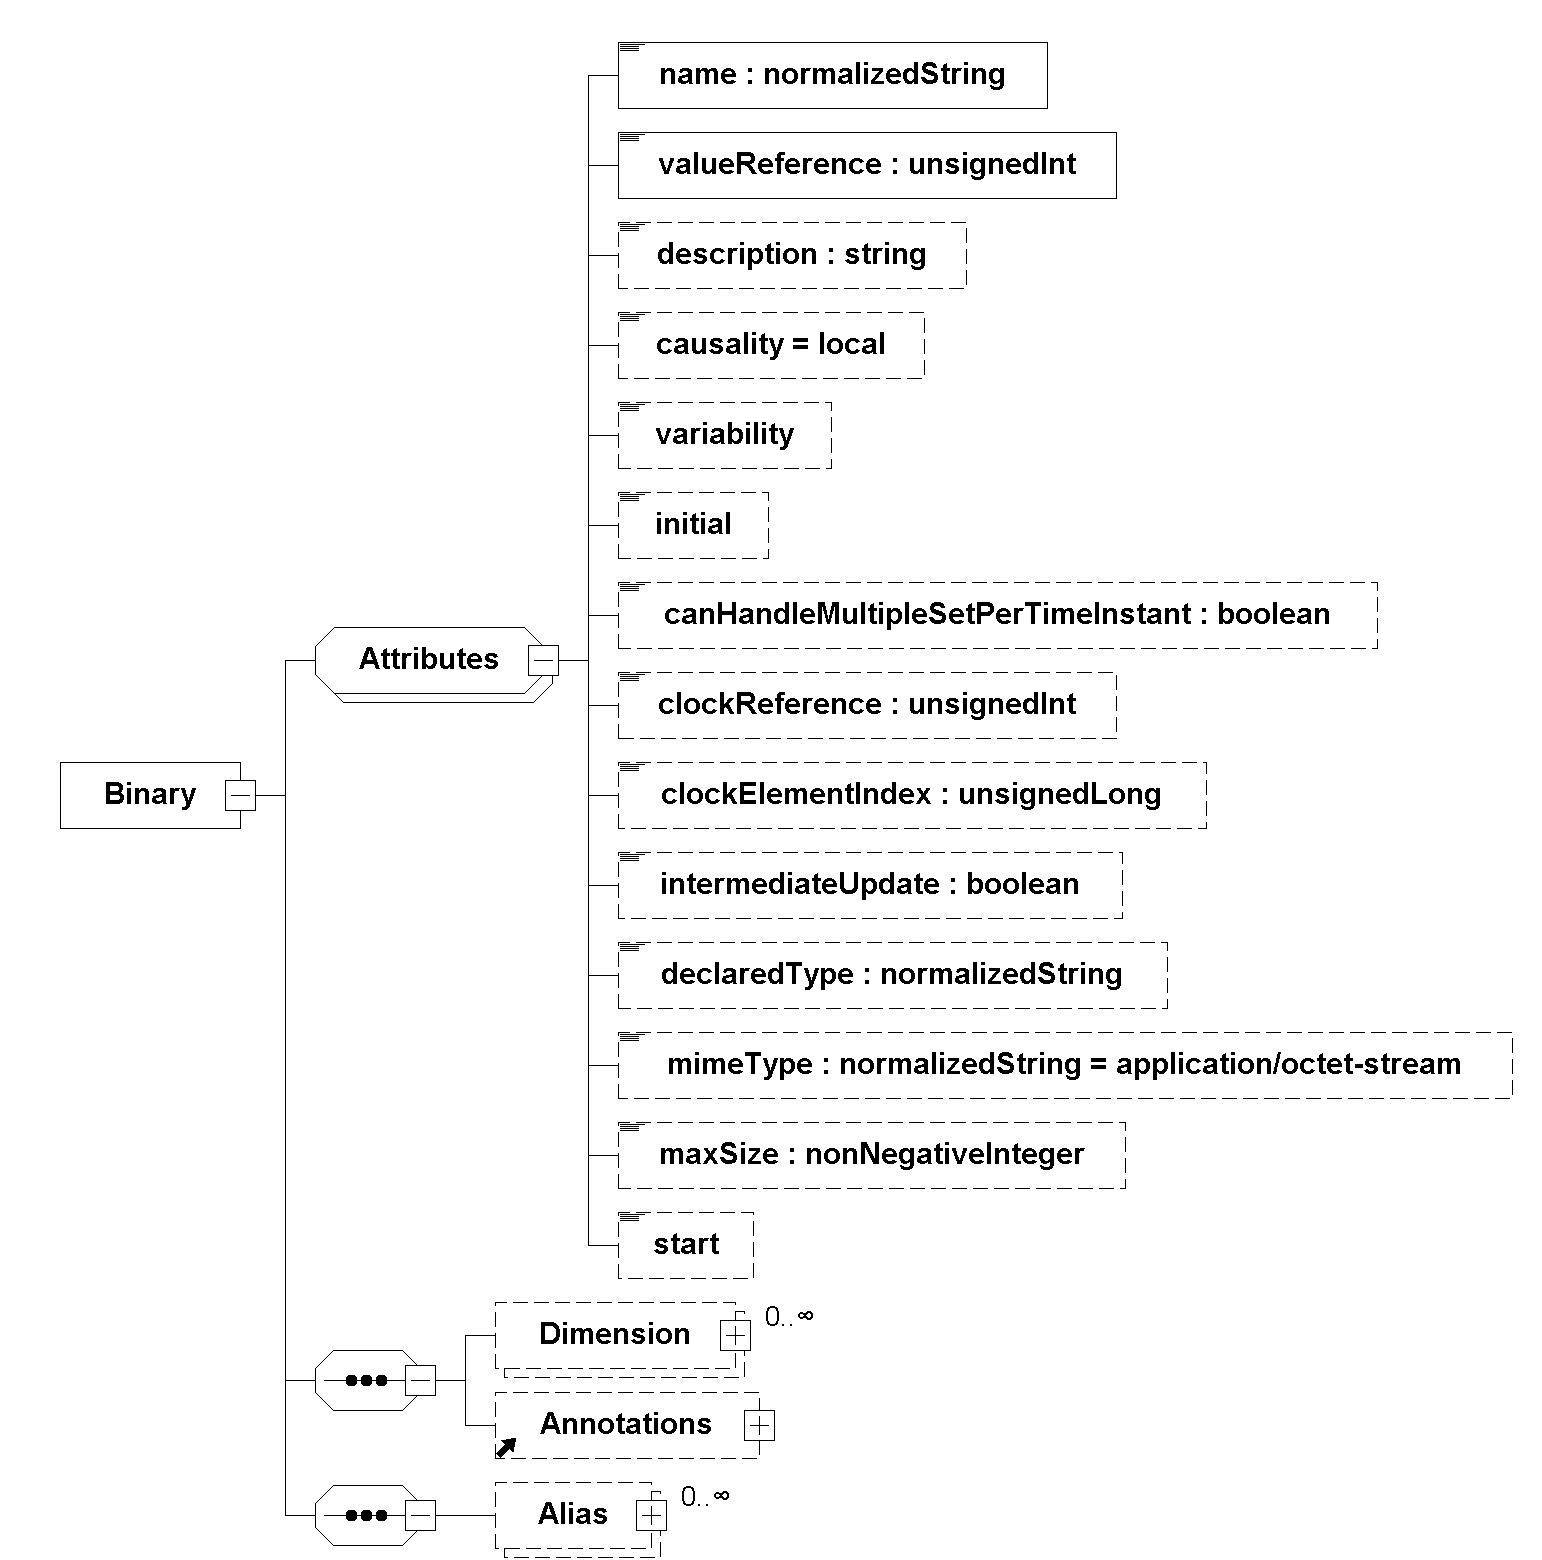
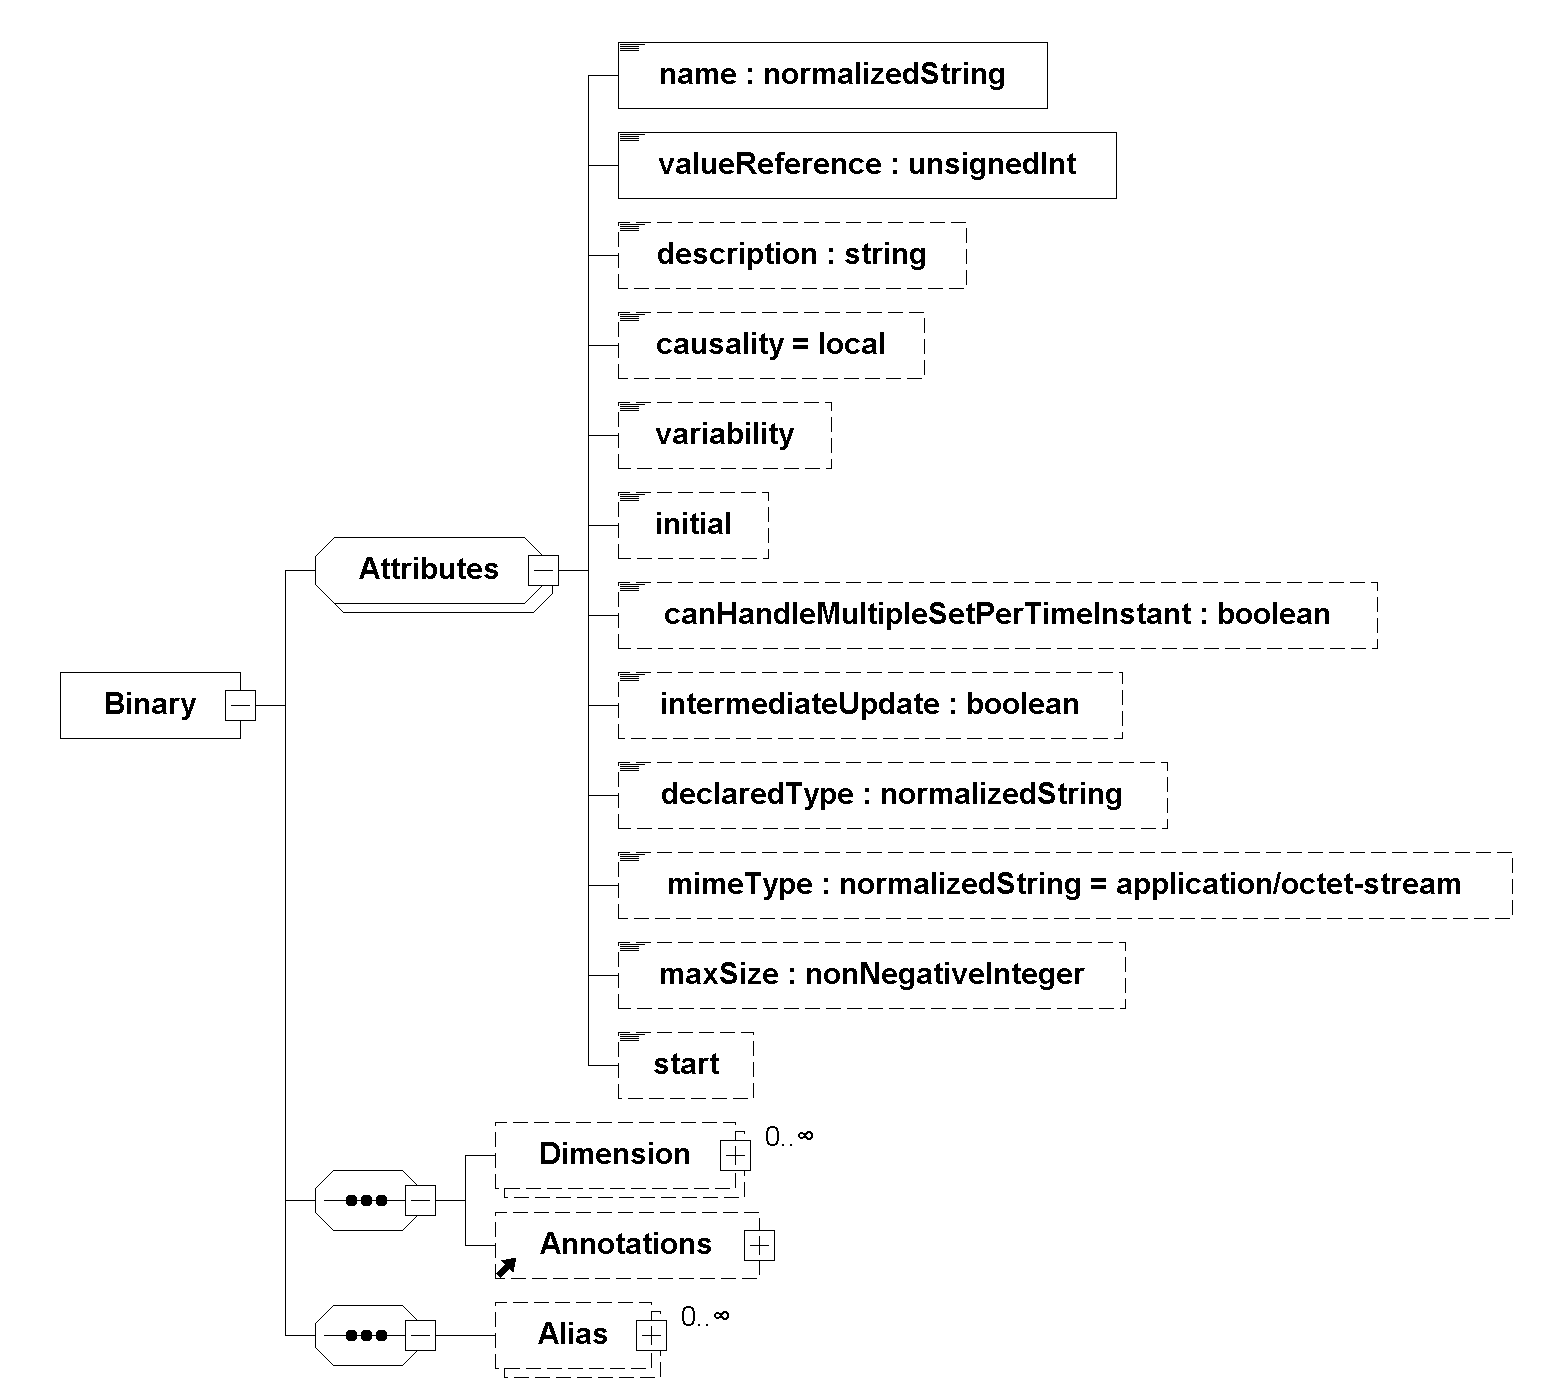
Add definition of model partition and clocked variables; resorted common paragraphs; remove clockReference from xsd

diff --git a/headers/fmi3FunctionTypes.h b/headers/fmi3FunctionTypes.h
@@ -61,12 +61,12 @@ typedef enum {
 
 /* tag::DependencyKind[] */
 typedef enum {
-    /* fmi3Independent = 0, not needed but reserved for future use */
-    fmi3Constant  = 1,
-    fmi3Fixed     = 2,
-    fmi3Tunable   = 3,
-    fmi3Discrete  = 4,
-    fmi3Dependent = 5
+    fmi3Independent = 0,
+    fmi3Constant    = 1,
+    fmi3Fixed       = 2,
+    fmi3Tunable     = 3,
+    fmi3Discrete    = 4,
+    fmi3Dependent   = 5
 } fmi3DependencyKind;
 /* end::DependencyKind[] */
 
